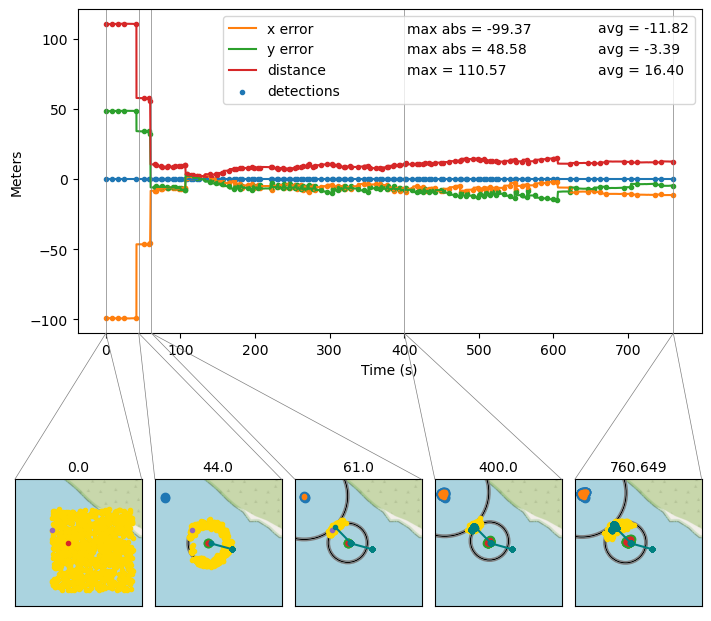
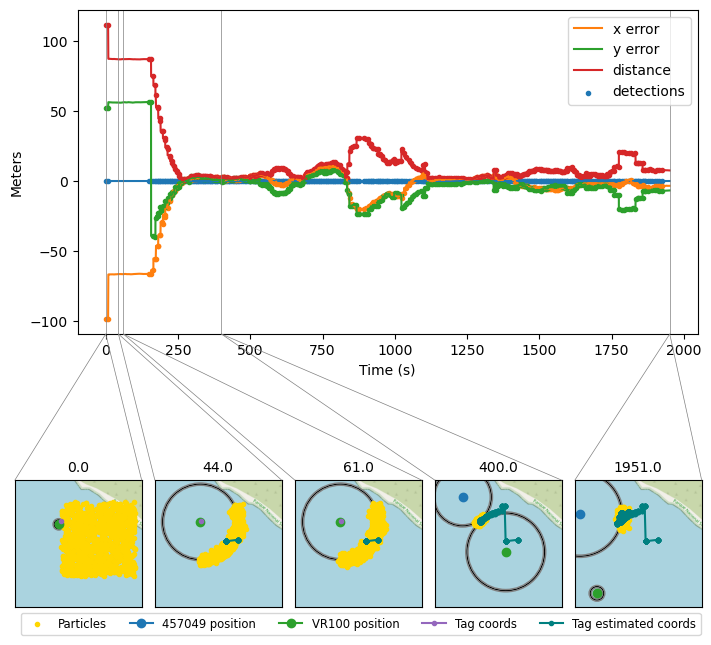
Modified figures again

diff --git a/scripts/pf.py b/scripts/pf.py
@@ -8,6 +8,7 @@ import matplotlib as mpl
 import matplotlib.pyplot as plt
 import matplotlib.gridspec as gridspec
 import matplotlib.animation as animation
+plt.rcParams["font.family"] = "Times New Roman"
 import pandas as pd
 from dataset import Dataset
 from kalman import KalmanFilter
@@ -275,12 +276,26 @@ class ParticleFilter(Filter):
         self._particles[:, -1] = 1
 
     def plot(self, dataset, show=True, save=False, replace=False, **kwargs):
+        def ints():
+            i = 0
+            while True:
+                yield i
+                i += 1
+        
+        i = ints()
+        n = 1 + 2 * len(dataset.hydrophones)
+
+        # Get parameters
         padding = kwargs.get('padding', 1.1)
         no_titles = kwargs.get('exclude_titles', False)
         width = kwargs.get('width', 3.5)
+        ratio = kwargs.get('ratio', 5)
+        seconds = kwargs.get('plot_total_seconds', False)
 
         # Set up figure and axes
-        fig, ax = plt.subplots(figsize=(width, width))
+        arr = mpl.figure.figaspect((1+ratio)/ratio)
+        w, h = width * arr / arr[0]
+        fig, (ax0, ax1) = plt.subplots(2, 1, gridspec_kw={'height_ratios': [ratio, 1]}, figsize=(w, h))
 
         avg_particle = np.average(self._history, axis=1)  # Find the average particle at each time step
 
@@ -299,8 +314,8 @@ class ParticleFilter(Filter):
         all_y = all_y[~np.isnan(all_y)]
         (minx, miny), (maxx, maxy) = utils.pad_bounds(((np.min(all_x), np.min(all_y)), (np.max(all_x), np.max(all_y))), f=padding, square=True)
         bbox = (minx, miny, maxx, maxy)
-        ax.set_xlim((minx, maxx))
-        ax.set_ylim((miny, maxy))
+        ax0.set_xlim((minx, maxx))
+        ax0.set_ylim((miny, maxy))
 
         # Create background map
         origin = dataset.origin
@@ -311,40 +326,73 @@ class ParticleFilter(Filter):
             (south, west), (north, east) = coord_bounds
             img, ext = utils.bounds2img(west, south, east, north, zoom=17, map_dir='../maps/OpenStreetMap/Mapnik')
             true_ext = utils.to_cartesian(np.flip(np.array(ext).reshape(2, 2), axis=0), origin).T.flatten()
-        ax.imshow(img, extent=true_ext)
+        ax0.imshow(img, extent=true_ext)
 
         # Plot hydrophone paths
         for name, data in dataset.hydrophones.items():
             x, y = data.coords['x'], data.coords['y']
             dx, dy = np.concatenate([np.diff(x), [0]]), np.concatenate([np.diff(y), [0]])
             detection_x, detection_y = dataset.get_hydrophone_xy(name, data.detections.index).T
-            l, = ax.plot(x, y, marker='o', label='{} coords'.format(name))
-            ax.plot(detection_x, detection_y, marker='.', linestyle='None', label='{} detections'.format(name))
-            ax.quiver(x, y, dx, dy, units='xy', angles='xy', scale_units='xy', scale=1, color=l.get_color())
+            l, = ax0.plot(x, y, marker='o', label='{} coords'.format(name))
+            ax0.plot(detection_x, detection_y, marker='.', linestyle='None', label='{} detections'.format(name))
+            ax0.quiver(x, y, dx, dy, units='xy', angles='xy', scale_units='xy', scale=1, color=l.get_color())
+
+            # Add times
+            if seconds:
+                coords_times = utils.total_seconds(data.coords.index, data.coords.index[0])
+                detections_times = utils.total_seconds(data.detections.index, data.coords.index[0])
+            else:
+                coords_times = data.coords.index
+                detections_times = data.detections.index
+            ax1.scatter(coords_times, [n - next(i)]*len(data.coords))
+            ax1.scatter(detections_times, [n - next(i)]*len(data.detections))
 
         # Plot groundtruth path
         x, y = np.array(dataset.tag.coords[['x', 'y']]).T
         dx, dy = np.concatenate([np.diff(x), [0]]), np.concatenate([np.diff(y), [0]])
-        l, = ax.plot(x, y, marker='o', label='Tag coords')
-        ax.quiver(x, y, dx, dy, units='xy', angles='xy', scale_units='xy', scale=1, color=l.get_color())
+        l, = ax0.plot(x, y, marker='o', label='Tag coords')
+        ax0.quiver(x, y, dx, dy, units='xy', angles='xy', scale_units='xy', scale=1, color=l.get_color())
+        if seconds:
+            tag_times = utils.total_seconds(dataset.tag.coords.index, dataset.tag.coords.index[0])
+        else:
+            tag_times = dataset.tag.coords.index
+        if type(dataset.tag.raw) is np.ndarray:
+            ax1.plot(tag_times, [n - next(i)]*2, '-o', color=l.get_color())
+        else:
+            ax1.scatter(tag_times, [n - next(i)]*len(dataset.tag.coords))
 
         # Plot particle path
         x, y = avg_particle[:, [0, 1]].T
         dx, dy = np.concatenate([np.diff(x), [0]]), np.concatenate([np.diff(y), [0]])
-        l, = ax.plot(x, y, marker='.', label='Tag estimated coords', color='teal')
-        ax.quiver(x, y, dx, dy, units='xy', angles='xy', scale_units='xy', scale=1, color=l.get_color())
+        l, = ax0.plot(x, y, marker='.', label='Tag estimated coords', color='teal')
+        ax0.quiver(x, y, dx, dy, units='xy', angles='xy', scale_units='xy', scale=1, color=l.get_color())
 
         # Final prep
         num_entries = 2*len(dataset.hydrophones)+2
-        handles, labels = ax.get_legend_handles_labels()
+        handles, labels = ax0.get_legend_handles_labels()
         actual_entries = len(handles)
         handles = np.array(handles + [None]*(num_entries-actual_entries)).reshape(-1, 2).T.flatten()[:num_entries]
         labels = np.array(labels + [None]*(num_entries-actual_entries)).reshape(-1, 2).T.flatten()[:num_entries]
-        ax.legend(handles, labels, loc='upper right', ncol=2)
-        ax.set_xlabel('x (m)')
-        ax.set_ylabel('y (m)')
+        ax0.legend(handles, labels, loc='upper right', ncol=2)
+        ax0.set_xlabel('x (m)')
+        ax0.set_ylabel('y (m)')
         if not no_titles:
-            ax.set_title('Trajectories')
+            ax0.set_title('Trajectories')
+
+        ax0.set_title('a)', loc='left', fontsize='medium')
+        ax1.set_title('b)', loc='left', fontsize='medium')
+
+        if seconds:
+            ax1.set_xlabel('Time (s)')
+        else:
+            ax1.set_xlabel('Time')
+        ax1.set_ylabel('Series')
+        ax1.set_yticks([])
+        ax1.set_yticklabels([])
+
+        # Set axes and figure sizes
+        ax1.set_box_aspect(1/ratio)
+        fig.set_tight_layout(True)
 
         # Show and save the plot
         if show:
@@ -432,10 +480,15 @@ class ParticleFilter(Filter):
         ax0.scatter(correction_times, x_error_corr, marker='.')
         ax0.scatter(correction_times, y_error_corr, marker='.')
         ax0.scatter(correction_times, dist_corr, marker='.')
-        if kwargs.get('legend_outside', False):
-            ax0.legend(loc='center left', ncol=3, bbox_to_anchor=(1, 0.5))
+        if kwargs.get('error_values', False):
+            ncol = 3
         else:
-            ax0.legend(loc='upper right', ncol=3)
+            ncol = 1
+        if kwargs.get('legend_outside', False):
+            ax0.legend(loc='center left', ncol=ncol, bbox_to_anchor=(1, 0.5))
+        else:
+            ax0.legend(loc='upper right', ncol=ncol)
+        ax0.set_title('a)', loc='left', fontsize='medium')
 
         # Plot zooms
         if n > 0:
@@ -471,7 +524,7 @@ class ParticleFilter(Filter):
                 ax.imshow(img, extent=true_ext)
 
             # Fill zoom axes
-            for (time, ax) in zip(zoom_times, axs):
+            for i, (time, ax, label) in enumerate(zip(zoom_times, axs, 'bcdefghijklmnopqrstuvwxyz')):
 
                 if type(time) == int:
                     idx = time
@@ -483,14 +536,16 @@ class ParticleFilter(Filter):
                     time = times[idx]
                 
                 # Plot particles
-                ax.scatter(self._history[idx, :, 0], self._history[idx, :, 1], linestyle='None', marker='.', color='gold')
+                ax.scatter(self._history[idx, :, 0], self._history[idx, :, 1], linestyle='None', marker='.', color='gold', label='Particles')
 
                 # Plot hydrophone paths
                 for name, data in dataset.hydrophones.items():
+                    # Plot hydrophone coords
                     x, y = data.coords['x'][:timestamp], data.coords['y'][:timestamp]
-                    detection_x, detection_y = dataset.get_hydrophone_xy(name, data.detections[:timestamp].index).T
-                    ax.plot(x, y, marker='o', label='{} path'.format(name))
-                    ax.plot(detection_x, detection_y, marker='.', linestyle='None', label='{} detections'.format(name))
+                    if len(x) > 0 and len(y) > 0:
+                        x, y = x[-1], y[-1]
+                    ax.plot(x, y, marker='o', label='{} position'.format(name))
+                    ax.plot([], [])
 
                     # Draw circles showing the last measurement
                     pos = dataset.get_hydrophone_xy(name, timestamp, mode='last')
@@ -502,18 +557,21 @@ class ParticleFilter(Filter):
                         index=self._time_history[self._step_history == Filter.CORRECTION][self._hydrophone_history == name])
                     r = Dataset.get(r_series, timestamp, mode='last')[1]
                     r_std = Dataset.get(r_std_series, timestamp, mode='last')[1]
-                    if r is not None and pos is not None:
-                        ax.add_patch(mpl.patches.Circle(pos, r, fill=False, linewidth=1, zorder=0))
-                        ax.add_patch(mpl.patches.Circle(pos, r-r_std, fill=False, linewidth=1, color='gray', zorder=0))
-                        ax.add_patch(mpl.patches.Circle(pos, r+r_std, fill=False, linewidth=1, color='gray', zorder=0))
+                    if r is None or pos is None:
+                        pos = (0, 0)
+                        r = 0
+                        r_std = 0
+                    ax.add_patch(mpl.patches.Circle(pos, r, fill=False, linewidth=1, zorder=0))
+                    ax.add_patch(mpl.patches.Circle(pos, r-r_std, fill=False, linewidth=1, color='gray', zorder=0))
+                    ax.add_patch(mpl.patches.Circle(pos, r+r_std, fill=False, linewidth=1, color='gray', zorder=0))
 
                 # Plot groundtruth path
                 x, y = np.array(dataset.tag.coords[['x', 'y']][:timestamp]).T
-                ax.plot(x, y, marker='.', label='tag true path')
+                ax.plot(x, y, marker='.', label='Tag coords')
 
                 # Plot particle path
                 x, y = avg_particle[:idx, [0, 1]].T
-                ax.plot(x, y, marker='.', label='tag estimated path', color='teal')
+                ax.plot(x, y, marker='.', label='Tag estimated coords', color='teal')
 
                 # Add lines indicating where the zooms came from
                 ax0.axvline(time, ymin=0, ymax=1, color='gray', linewidth=0.5)
@@ -524,7 +582,13 @@ class ParticleFilter(Filter):
                 fig.add_artist(con_right)
 
                 # Set title to the timestamp
-                ax.set_title(str(time), fontsize=10)
+                ax.set_title(str(time), fontsize='medium')
+                ax.set_title('{})'.format(label), loc='left', fontsize='medium')
+
+                # Add legend to one zoom axis
+                if i == 0:
+                    handles, labels = ax.get_legend_handles_labels()
+                    fig.legend(handles, labels, loc='upper left', ncol=5, fontsize='small', bbox_to_anchor=(0, 0), bbox_transform=ax.transAxes)
 
         # Set and figure titles
         if seconds:
@@ -716,10 +780,8 @@ class ParticleFilter(Filter):
         plt.close()
 
 if __name__ == '__main__':
-    # dataset = Dataset('tag78_swimming_test_1_2', shift_tof=True)
-    # dataset = Dataset('tag78_shore_2_boat_all_static_test_1', shift_tof=True)
-    dataset = Dataset('tag78_shore_2_boat_all_static_test_0', shift_tof=True)
-    # dataset = Dataset('tag78_50m_increment_long_beach_test_0', reset_tof=True, shift_tof=True)
+    save = True
+    dataset = Dataset('tag78_swimming_test_1_2', shift_tof=True)
     pf = ParticleFilter.from_dataset(dataset, 1000, RandomMotionModel, motion_model_params={
                 'init_uniform_random': [(0, 200), (-150, 50)]
             }, save_history=True, hydrophone_params={
@@ -727,9 +789,24 @@ if __name__ == '__main__':
                 457049: {'m': -0.20985953, 'l': 5.5568182, 'b': 76.90064068, 'signal_var': 1000, 'ff': 0.1, 'initial_r': 0}
             }, use_tof=True, measurement_cov=np.array([[10, 0], [0, 10]]))
     pf.run()
-    pf.plot(dataset, show=True, save=True, exclude_titles=True, width=7, savepath='../paper/fig4.png')
-    # pf.plot_error(dataset, show=True, save=True, exclude_titles=True, plot_total_seconds=True, zoom_times=[0, 20, 200, -1], ratio=1, error_values=True, width=7, savepath='../paper/fig2.png')
-    pf.plot_error(dataset, show=True, save=True, exclude_titles=True, plot_total_seconds=True, zoom_times=[0, dataset.start_time + timedelta(seconds=44), dataset.start_time + timedelta(seconds=60.5), dataset.start_time + timedelta(seconds=400), -1], ratio=1, error_values=True, width=7, savepath='../paper/fig5.png')
+    pf.plot(dataset, show=True, save=save, exclude_titles=True, plot_total_seconds=True, width=6.5, savepath='../paper/fig0.png')
+    pf.plot_error(dataset, show=True, save=save, exclude_titles=True, plot_total_seconds=True, zoom_times=[0, 20, 200, -1], ratio=1, width=6.5, savepath='../paper/fig1.png')
+
+    dataset = Dataset('tag78_shore_2_boat_all_static_test_0', shift_tof=True)
+    pf = ParticleFilter.from_dataset(dataset, 1000, RandomMotionModel, motion_model_params={
+                'init_uniform_random': [(0, 200), (-150, 50)]
+            }, save_history=True, hydrophone_params={
+                'VR100': {'m': -0.10527966, 'l': -0.55164737, 'b': 68.59493072, 'signal_var': 1000, 'ff': 0.1, 'initial_r': 0},
+                457049: {'m': -0.20985953, 'l': 5.5568182, 'b': 76.90064068, 'signal_var': 1000, 'ff': 0.1, 'initial_r': 0}
+            }, use_tof=True, measurement_cov=np.array([[10, 0], [0, 10]]))
+    pf.run()
+    pf.plot(dataset, show=True, save=save, exclude_titles=True, plot_total_seconds=True, width=6.5, savepath='../paper/fig2.png')
+    pf.plot_error(dataset, show=True, save=save, exclude_titles=True, plot_total_seconds=True, zoom_times=[0, dataset.start_time + timedelta(seconds=44), dataset.start_time + timedelta(seconds=60.5), dataset.start_time + timedelta(seconds=400), -1], ratio=1, width=6.5, savepath='../paper/fig3.png')
+
+    # dataset = Dataset('tag78_shore_2_boat_all_static_test_1', shift_tof=True)
+    # dataset = Dataset('tag78_shore_2_boat_all_static_test_0', shift_tof=True)
+    # dataset = Dataset('tag78_50m_increment_long_beach_test_0', reset_tof=True, shift_tof=True)
+    # pf.plot_error(dataset, show=True, save=False, exclude_titles=True, plot_total_seconds=True, zoom_times=[0, dataset.start_time + timedelta(seconds=44), dataset.start_time + timedelta(seconds=60.5), dataset.start_time + timedelta(seconds=400), -1], ratio=1, error_values=True, width=7, savepath='../paper/fig5.png')
     # pf.plot_error(dataset, show=True, save=True, exclude_titles=True, plot_total_seconds=True, zoom_times=[0, dataset.start_time + timedelta(seconds=500), dataset.start_time + timedelta(seconds=1500), dataset.start_time + timedelta(seconds=3500), -1], ratio=1, error_values=True, width=7, savepath='../paper/fig8.png')
 
     # Old hydrophone params

diff --git a/scripts/dataset.py b/scripts/dataset.py
@@ -606,9 +606,100 @@ class Dataset():
             utils.savefig(fig, savepath)
         plt.close()
 
+    def plot_range_error(self, name, save=False, replace=True, show=True, **kwargs):
+        # Get parameters
+        no_titles = kwargs.get('exclude_titles', False)
+        width = kwargs.get('width', 3.5)
+        ratio = kwargs.get('ratio', 0.8)
+        seconds = kwargs.get('plot_total_seconds', False)
+
+        # Set up figure and axes
+        arr = mpl.figure.figaspect(ratio)
+        w, h = width * arr / arr[0]
+        fig, (ax0, ax1) = plt.subplots(2, 1, figsize=(w, h), sharex=True)
+
+        # Get data
+        data = self.hydrophones[name]
+        times = data.detections.index
+        if seconds:
+            x = utils.total_seconds(times, times[0])
+        else:
+            x = times
+
+        # Axis 0
+        # Plot gps distance
+        gps_distances = self.get_gps_distance(name, times)
+        l, = ax0.plot(x, gps_distances, marker=',', label='GPS distance')
+
+        # Plot tof distance
+        tof_distances = np.array(data.detections['total_distance'])
+        ax0.plot(x, tof_distances, label='TOF distance')
+
+        # Plot shifted tof distance
+        shifted_tof_distances = tof_distances + gps_distances[0] - tof_distances[0]
+        ax0.plot(x, shifted_tof_distances, label='Shifted TOF distance')
+
+        # Plot error adjusted tof distance
+        error_slope = ((gps_distances[-1]-tof_distances[-1]) - (gps_distances[0]-tof_distances[0])) / (times[-1]-times[0]).total_seconds()
+        error = lambda t: error_slope * utils.total_seconds(t, times[0]) + (gps_distances[0]-tof_distances[0])
+        adjusted_tof_distances = tof_distances + error(times)
+        ax0.plot(x, adjusted_tof_distances, label='Adjusted TOF distance')
+
+        # Add legend and title
+        ax0.scatter(x, gps_distances, marker='.')
+        if seconds:
+            ax0.scatter(utils.total_seconds(self.tag.coords.index, times[0]), self.get_gps_distance(name, self.tag.coords.index), marker='o', color=l.get_color())
+        else:
+            ax0.scatter(self.tag.coords.index, self.get_gps_distance(name, self.tag.coords.index), marker='o', color=l.get_color())
+        ax0.scatter(x, tof_distances, marker='.')
+        ax0.scatter(x, shifted_tof_distances, marker='.')
+        ax0.scatter(x, adjusted_tof_distances, marker='.')
+        ax0.legend()
+        if not no_titles:
+            ax0.set_title('Hydrophone {}'.format(name))
+        ax0.set_ylabel('Distance (m)')
+
+        # Axis 1
+        # Plot errors
+        n = len(times)
+        tof_distance_rms = np.sqrt(np.sum(np.square(gps_distances - tof_distances)) / n)
+        shifted_tof_distance_rms = np.sqrt(np.sum(np.square(gps_distances - shifted_tof_distances)) / n)
+        adjusted_tof_distance_rms = np.sqrt(np.sum(np.square(gps_distances - adjusted_tof_distances)) / n)
+        ax1.plot(x, [0]*len(times))
+        if kwargs.get('error_values', False):
+            ax1.plot(x, gps_distances - tof_distances, label='TOF error, RMS={:.2f}'.format(tof_distance_rms))
+            ax1.plot(x, gps_distances - shifted_tof_distances, label='Shifted TOF error, RMS={:.2f}'.format(shifted_tof_distance_rms))
+            ax1.plot(x, gps_distances - adjusted_tof_distances, label='Adjusted TOF error, RMS={:.2f}'.format(adjusted_tof_distance_rms))
+        else:
+            ax1.plot(x, gps_distances - tof_distances, label='TOF error'.format(tof_distance_rms))
+            ax1.plot(x, gps_distances - shifted_tof_distances, label='Shifted TOF error'.format(shifted_tof_distance_rms))
+            ax1.plot(x, gps_distances - adjusted_tof_distances, label='Adjusted TOF error'.format(adjusted_tof_distance_rms))
+        ax1.scatter(x, [0]*len(times), marker='.')
+        ax1.scatter(x, gps_distances - tof_distances, marker='.')
+        ax1.scatter(x, gps_distances - shifted_tof_distances, marker='.')
+        ax1.scatter(x, gps_distances - adjusted_tof_distances, marker='.')
+        ax1.legend()
+        ax1.set_ylabel('Error (m)')
+        if seconds:
+            ax1.set_xlabel('Time (s)')
+        else:
+            ax1.set_xlabel('Time')
+
+        if not no_titles:
+            fig.suptitle('{} tof vs gps'.format(self.name))
+        fig.subplots_adjust(wspace=0, hspace=0)
+        if show:
+            plt.show()
+        if save:
+            savepath = kwargs.get('savepath', utils.add_version('../datasets/{n}/{n}_tof_vs_gps.png'.format(n=self.name), replace=replace))
+            print('Saving to {}'.format(savepath))
+            utils.savefig(fig, savepath)
+        plt.close()
+
 if __name__ == '__main__':
     # dataset = Dataset('tag78_swimming_test_1_2')
     # dataset = Dataset('tag78_shore_2_boat_all_static_test_0')
-    dataset = Dataset('tag78_50m_increment_long_beach_test_0')
-    dataset.plot(save=True, replace=True, exclude_titles=True, plot_total_seconds=True, savepath='../paper/fig6.png', ratio=7, width=7, legend_outside=False)
-    dataset.plot_tof_vs_gps(save=False)
+    dataset = Dataset('tag78_50m_increment_long_beach_test_0', end_time=datetime.fromisoformat('2022-06-08 09:56'))
+    # dataset.plot(save=True, replace=True, exclude_titles=True, plot_total_seconds=True, savepath='../paper/fig6.png', ratio=7, width=7, legend_outside=False)
+    # dataset.plot_tof_vs_gps(save=False)
+    dataset.plot_range_error(457012, show=True, save=True, exclude_titles=True, width=10, plot_total_seconds=True, savepath='../paper/fig_stairs.png')
